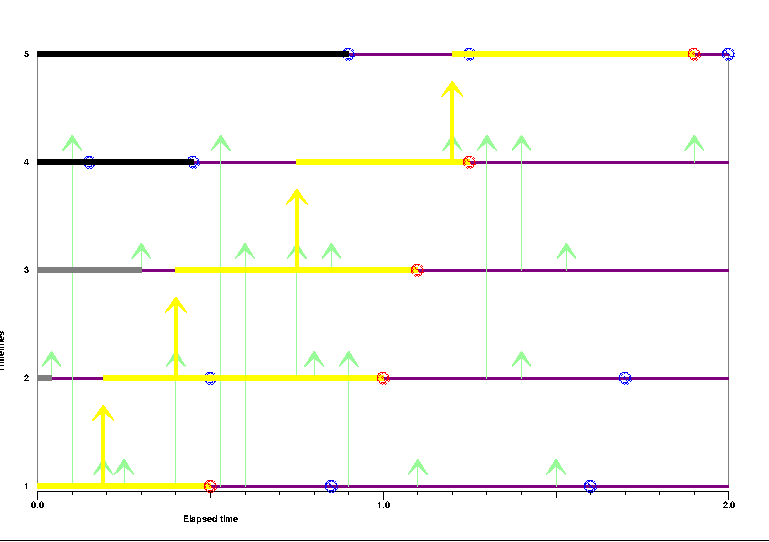
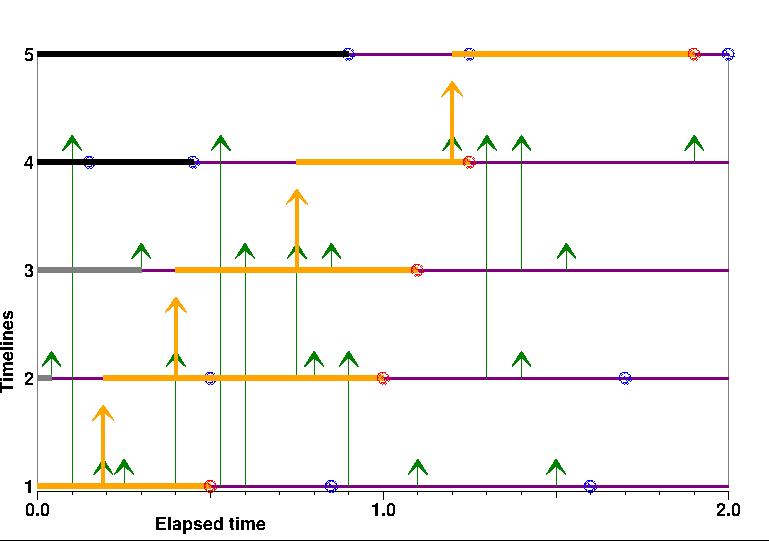
Altered infectious colour to orange. Added some remarks concerning difference between set of potential removals (marked times) and set of conditioned removals (raw times, singleton set per time-line).

diff --git a/PerfectEpidemics.tex b/PerfectEpidemics.tex
@@ -1147,10 +1147,11 @@ the constrained variant process.
 Modified graphical representation of \SIR epidemic, conditioned on removals. 
 There are five time-lines. 
 \\
-(\ref{subfig:Infectious}): Yellow time-line segments denote infectious portions of time-lines.
+(\ref{subfig:Infectious}): 
+Orange time-line segments denote infectious portions of time-lines.
 \\
 (\ref{subfig:Infections}): 
-Yellow arrows denote instances where a potential infection 
+Orange arrows denote instances where a potential infection 
 (with marks \(j \leq i\))
 results in an actual infection:
 the arrow
@@ -1172,11 +1173,14 @@ at time-line with mark \(i\).
 (\ref{subfig:inline-R}): Red circles denote conditioned removals, located
 on the time-lines on which these removals happen. 
 \\
-(A conditioned removal on time-line \(i\) 
-has to be associated with a potential removal on
-time-line \(i\) or greater. such that the relevant time-line is
-actually
-infectious at the potential removal time.)
+(A conditioned removal on time-line \(j\) 
+has to be associated with a potential removal located on
+time-line \(i\geq j\), such that the time-line \(i\)
+and \(j\)
+is
+actually infectious,
+and the time-line \(j\) is the infectious time-line of lowest index,
+at the potential removal time.)
 % % A potential infection with arrow ending at \(i+1\) and 
 % % starting at \(j\) (\(j<i\))
 % % takes effect only when the time-line \(i\y) is 
@@ -1243,10 +1247,10 @@ It is helpful to develop a vocabulary describing the boundaries of five regions 
 and
 occurring before removal time \(\rho^m\).%
 \xNB[WSK2]{Is ``realized'' the opposite of ``potential''? I think the use of this terminology needs careful checking: I suspect it is used carelessly in the present text.}
-Similarly, we may consider the point-set \(\Removals^m_k\) of potential removals assigned to time-line \(m\) occurring before removal time \(\rho^m\).
+Similarly, we may consider the point-set \(\Removals^m_k\) of potential removals assigned to time-line \(m\) occurring before removal time \(\rho^m\). 
 %Thus
 \xNB[WSK3]{SBC please check explicit definition of $\Infections^m_k$! \textbf{Commented out, based on SBC rejoinder.}}
-\NB[SBC]{I've removed definition of $\Removals^m_k$ in terms of $\Pi_k$, since the latter includes censored removals!}
+\xNB[SBC]{I've removed definition of $\Removals^m_k$ in terms of $\Pi_k$, since the latter includes censored removals!}
 \xNB[SBC]{Is this notation potentially confusing, when we're using $R_t$ for removal process?} %
 %\begin{align*}
 %%  \Infect\
@@ -1255,7 +1259,11 @@ Similarly, we may consider the point-set \(\Removals^m_k\) of potential removals
 %     \text{with }  0\le t\le \rho^m \} \,.
 %\end{align*}
 % \[ \Removals^m_k = \{t\,:\, [t;m] \in \Poisson_k, \text{with }  0\le t\le \rho^m \} \,.\]
-We denote the point-set of \emph{conditioned} removal times assigned to time-line \(m\) at algorithmic time \(\tau=2kT\) by \(\Conditioned^m_k\). 
+We denote the 
+(singleton)
+point-set of \emph{conditioned} removal times assigned to time-line \(m\) at algorithmic time \(\tau=2kT\) by \(\Conditioned^m_k\). 
+\NB[WSK3]{Distinguish explicitly between $\Removals^m_k$ (set of marked times at which removals might happen, not necessarily on time-line $m$, and depending on state of time-line given by mark at that particular process time) and $\Conditioned^m_k$ (set of process times at which removals are conditioned actually to happen on time-line $m$, hence singleton set).}
+\NB[WSK3]{I cannot recall whether the time in $\Conditioned^m_k$ must always be one of the the times involved in $\Removals^m_k$ -- a sign that this needs to be made clear here!}
 Additionally,
 \xNB[SBC]{Possibly simplify notation by replacing $\Conditioned^{m+}$ with $\Conditioned^{m:n}$ and $\Removals^{m-}$ with $\Removals^{1:m}$?}
 % . We shall write 
